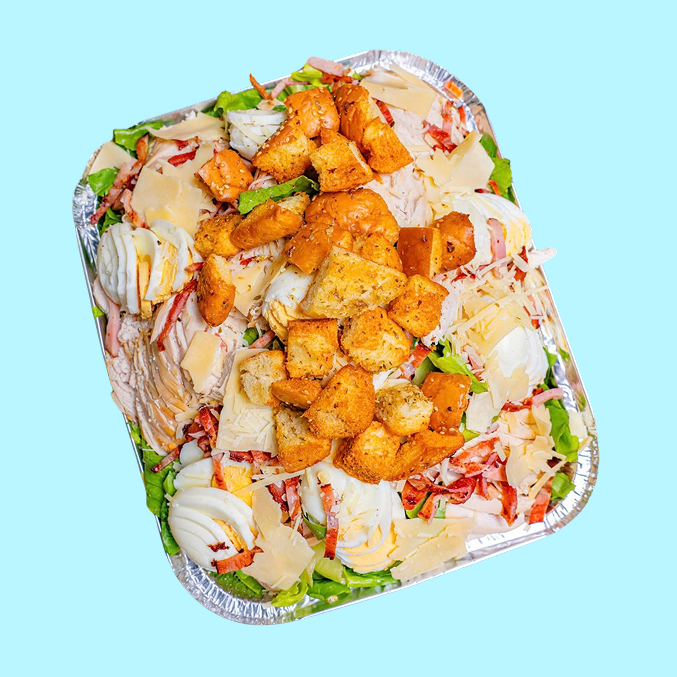
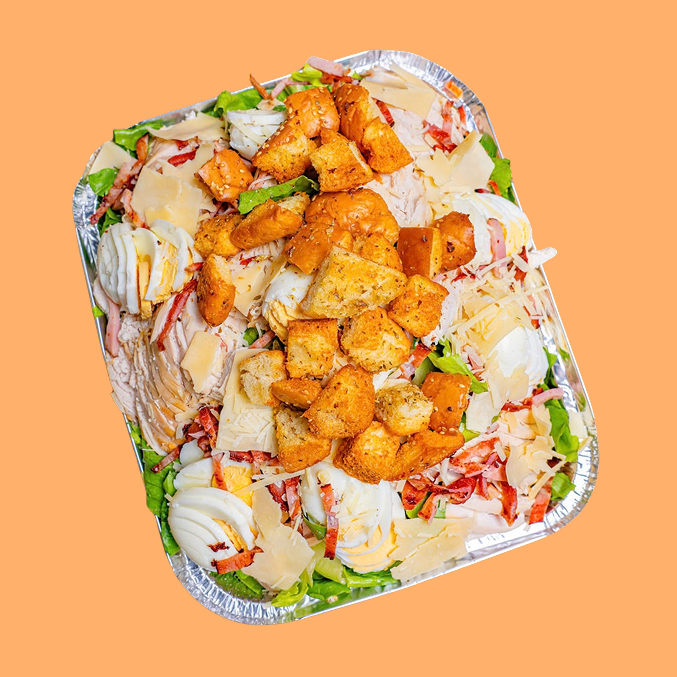
feat: change blue into orange.

diff --git a/lib/data/menus.ts b/lib/data/menus.ts
@@ -671,7 +671,7 @@ export const menus: MenuItem[] = [
       { label: "Large", price: 14.9 },
       { label: "Family", price: 20.0 },
     ],
-    bgColor: "#C7F9FF",
+    bgColor: "#FFB97C",
   },
   {
     simage: "/smenu/sample/7.png",
